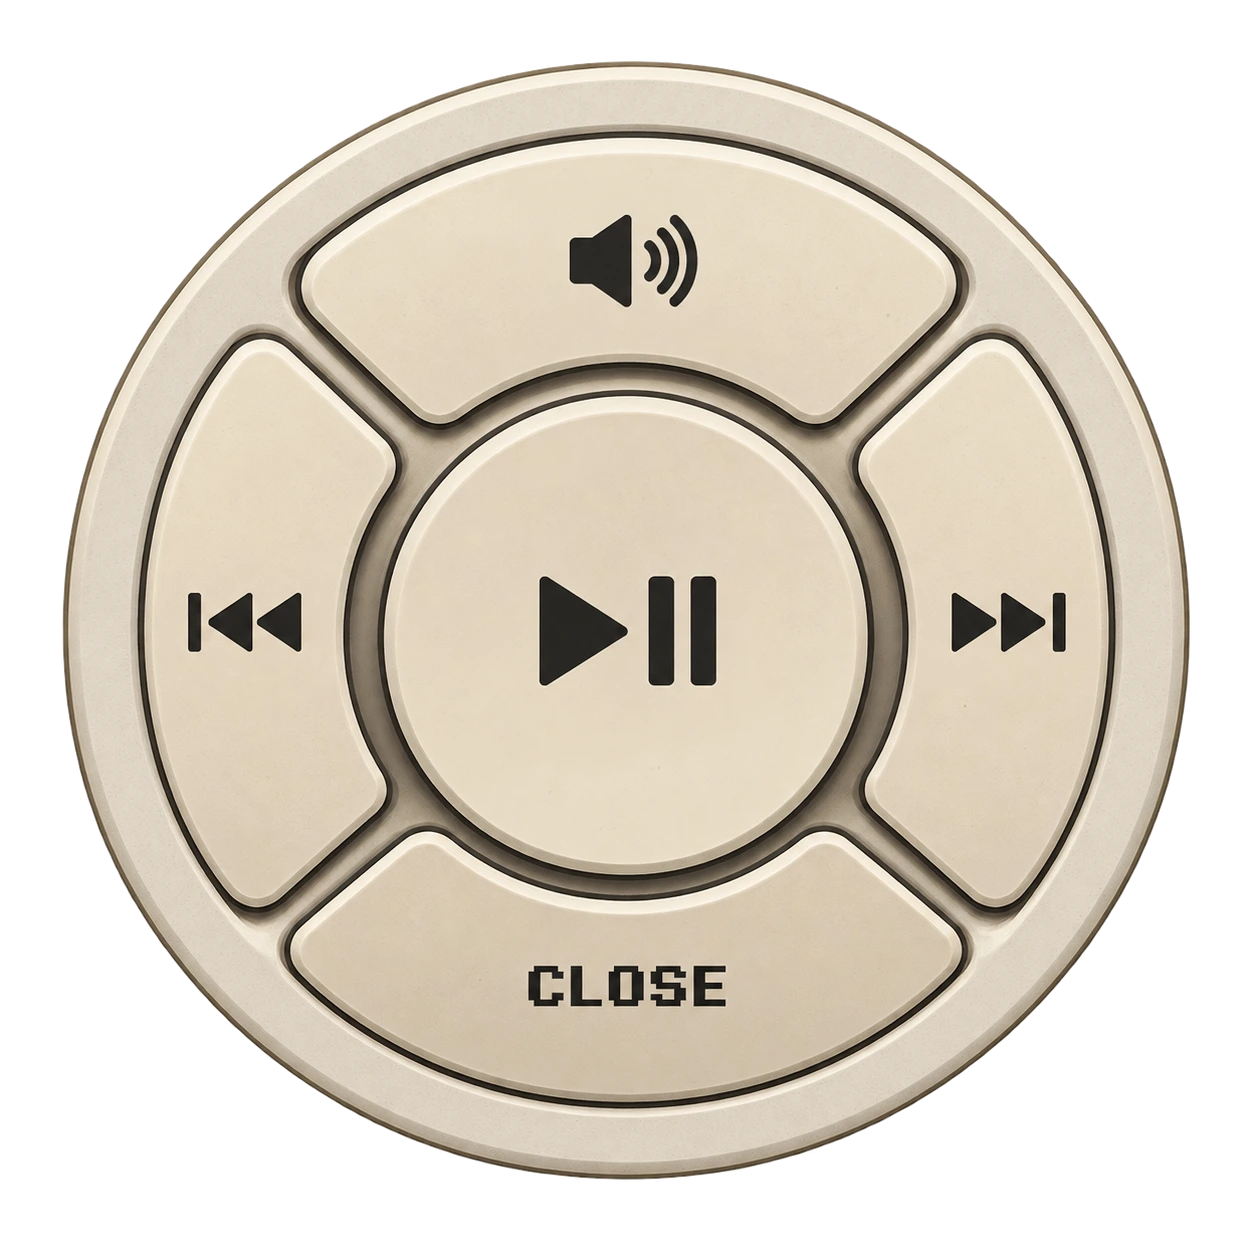
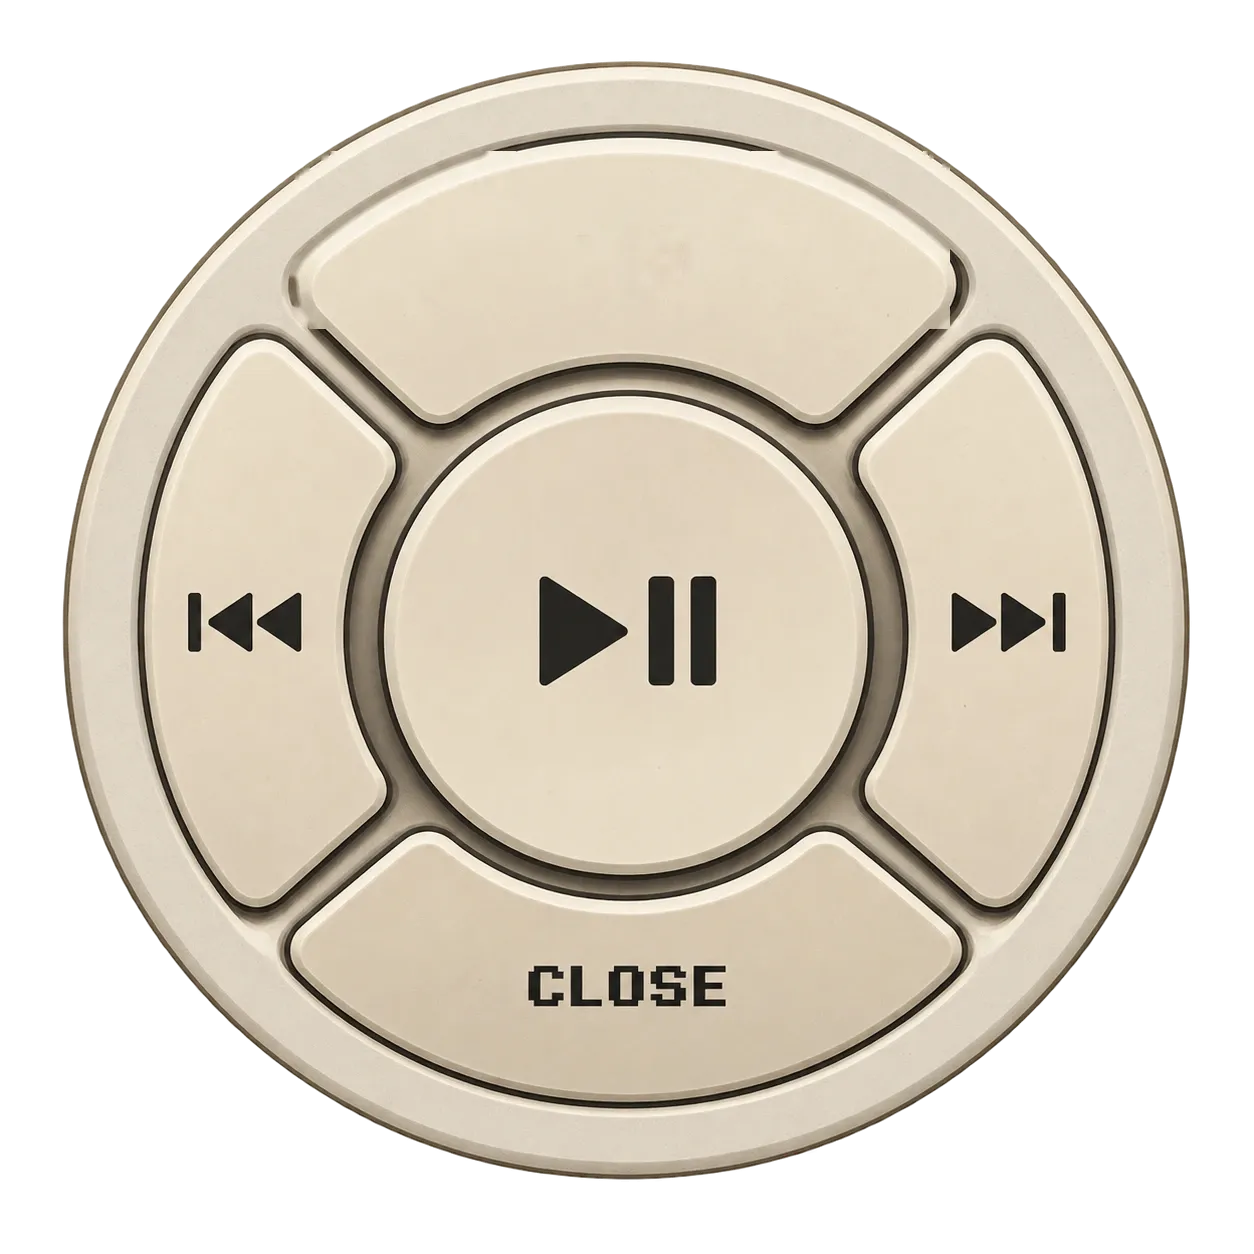
finalizing

diff --git a/css/style.css b/css/style.css
@@ -726,7 +726,8 @@ a { color: inherit; text-decoration: none; -webkit-tap-highlight-color: transpar
 .stereoPlayer__prev { left: 28.7%; }
 .stereoPlayer__play {
   left: 43.1%; width: 13.8%; display: flex; align-items: center; justify-content: center; color: #2a2015;
-  background: #dcd2c3; /* opaque patch matching the sampled dashboard-button color, fully masking the baked icon underneath */
+  /* the baked icon pixels were removed directly from the artwork, so the SVG icon now sits
+     cleanly on the real embossed button — no flat patch needed */
 }
 .stereoPlayer__next { left: 57.4%; }
 .stereoPlayer__btn:hover { filter: brightness(.9); }
@@ -759,9 +760,8 @@ a { color: inherit; text-decoration: none; -webkit-tap-highlight-color: transpar
 .stereoMin__ring { inset: 0; border-radius: 50%; z-index: 1; }
 .stereoMin button.stereoMin__max {
   left: 23.1%; top: 12%; width: 52.7%; height: 14.3%; z-index: 2;
-  display: flex; align-items: center; justify-content: center;
-  background: #e6dac4; /* opaque, matches the sampled remote-face cream, fully masking the baked icon underneath */
-  border-radius: 999px; color: #2a2015;
+  display: flex; align-items: center; justify-content: center; color: #2a2015;
+  /* baked icon pixels were removed directly from the artwork — no flat patch needed */
 }
 .stereoMin__max svg { width: 48%; height: 48%; pointer-events: none; }
 .stereoMin__prev { left: 5.2%; top: 26.7%; width: 26.3%; height: 44.7%; z-index: 2; }
